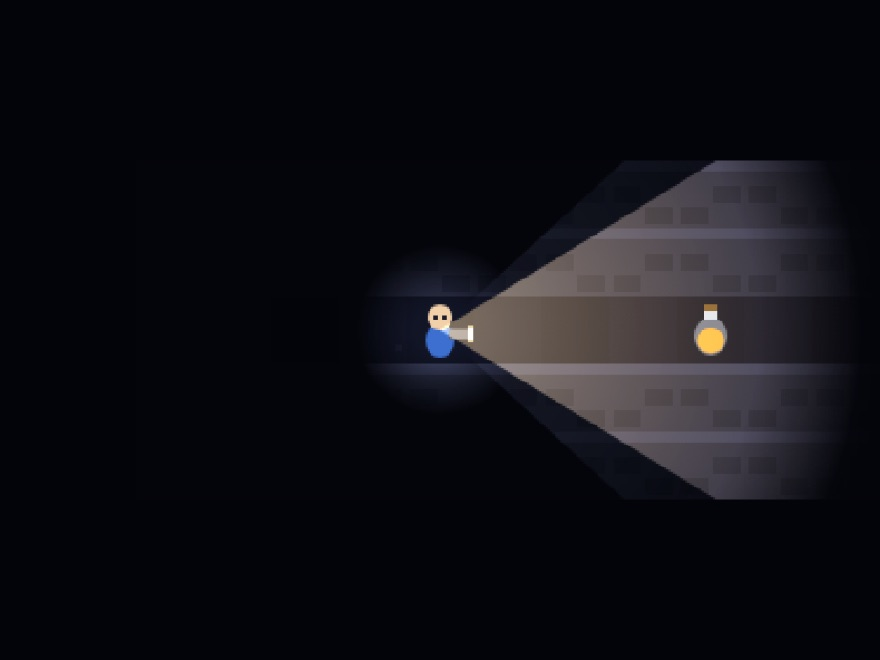
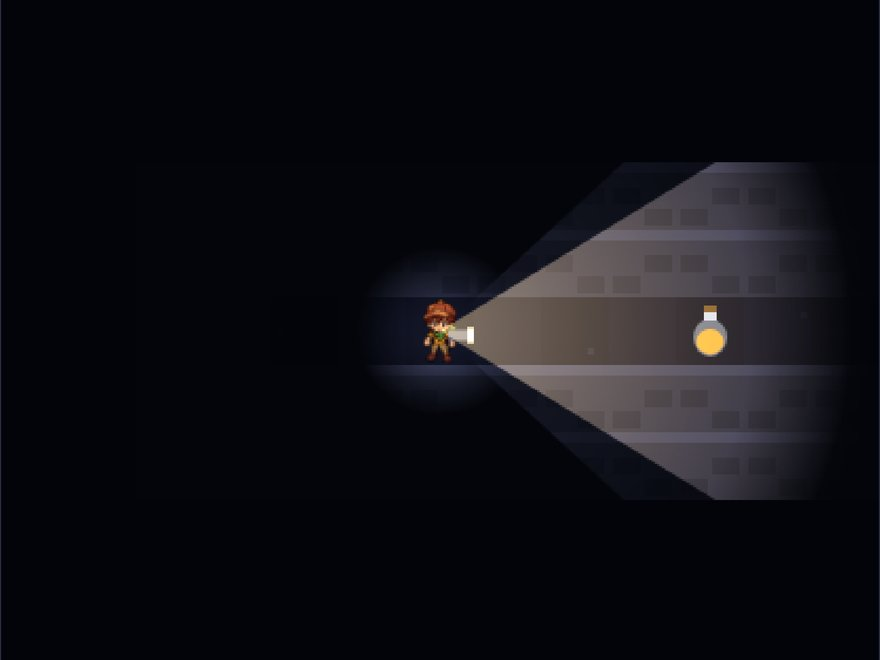
feat: 등불 미로 주인공을 브실팀이 고른 탐험가 그림으로 바꾸기
- 코덱스(gpt-image)로 만든 주인공 시안 3종 중 브실팀이 고른 C 탐험가
  (갈색 모자, 초록 스카프, 배낭)를 배경을 지워 hero.png(35×64)로 넣음
- drawPlayer가 그림을 그리고, 왼쪽을 볼 때는 좌우를 뒤집음.
  손전등은 예전처럼 코드가 그려 가리키는 방향으로 돎
- 옷장 문이 열릴 때 보이는 놀란 주인공도 같은 그림으로
- 그림을 못 불러오면 예전 모습으로 그림
- 대표 그림(thumb.jpg)을 새 주인공 화면으로 다시 찍음

Changed region(s): [[0.4602, 0.4545, 0.5523, 0.5455], [0.767, 0.4545, 0.8284, 0.5455], [0.5523, 0.5455, 0.583, 0.5758]]

diff --git a/games/lantern-maze/index.html b/games/lantern-maze/index.html
@@ -820,10 +820,13 @@ function drawBox(b){
     const k=Math.min(1,(OPEN_T-opening)/(OPEN_T*.7)),o=k*k*(3-2*k),w=9*(1-.82*o);
     cx.fillStyle='#0b0c12';cx.fillRect(x+6,y+6,20,21);
     const px=x+16,py=y+17;
+    if(heroReady){const hh=19,hw=hh*HERO.width/HERO.height;cx.drawImage(HERO,px-hw/2,y+7,hw,hh)}   // 옷장 안에서 놀란 탐험가
+    else{
     cx.fillStyle='#3d6fd1';cx.beginPath();cx.ellipse(px,py+5,5,5.5,0,0,Math.PI*2);cx.fill();
     cx.fillStyle='#f2d0a9';cx.beginPath();cx.arc(px,py-3,4.3,0,Math.PI*2);cx.fill();
     cx.fillStyle='#1b1d2b';cx.beginPath();cx.arc(px-1.6,py-3.5,1,0,Math.PI*2);cx.arc(px+1.6,py-3.5,1,0,Math.PI*2);cx.fill();
     cx.beginPath();cx.ellipse(px,py-.6,1,1.4,0,0,Math.PI*2);cx.fill();
+    }
     cx.fillStyle='#6b4a2b';cx.fillRect(x+6,y+6,w,21);cx.fillRect(x+26-w,y+6,w,21);
     cx.fillStyle='#3e2814';cx.fillRect(x+6+w-1,y+6,1,21);cx.fillRect(x+26-w,y+6,1,21);
   }else if(inside){ // 문틈이 살짝 벌어지고 눈이 보임
@@ -846,11 +849,18 @@ function drawDoor(door){
   if(!hasKey){cx.fillStyle='#ffd166';cx.fillRect(x+12,y+15,8,7);cx.strokeStyle='#ffd166';cx.lineWidth=2;cx.beginPath();cx.arc(x+16,y+15,3,Math.PI,0);cx.stroke()}
   else{cx.fillStyle='#7fd99a';cx.beginPath();cx.moveTo(x+11,y+12);cx.lineTo(x+21,y+17);cx.lineTo(x+11,y+22);cx.fill()}
 }
+// 주인공 그림: 브실팀이 고른 탐험가 (코덱스로 만든 시안 C). 그림을 못 불러오면 예전 모습으로 그림
+const HERO=new Image();let heroReady=false;HERO.onload=()=>{heroReady=true};HERO.src='hero.png';
 function drawPlayer(){
   const x=cxp(player.rx),y=cxp(player.ry);
+  if(heroReady){
+    const hh=30,hw=hh*HERO.width/HERO.height,left=Math.cos(player.ra)<-.3;   // 왼쪽을 볼 때는 좌우를 뒤집음
+    cx.save();cx.translate(x,y);if(left)cx.scale(-1,1);cx.drawImage(HERO,-hw/2,-hh/2,hw,hh);cx.restore();
+  }else{
   cx.fillStyle='#3d6fd1';cx.beginPath();cx.ellipse(x,y+5,7,8,0,0,Math.PI*2);cx.fill();
   cx.fillStyle='#f2d0a9';cx.beginPath();cx.arc(x,y-6,6,0,Math.PI*2);cx.fill();
   cx.fillStyle='#1b1d2b';cx.fillRect(x-3,y-7,2,2);cx.fillRect(x+1,y-7,2,2);
+  }
   // 손에 든 손전등 (바라보는 방향)
   const hx=x+Math.cos(player.ra)*9,hy=y+2+Math.sin(player.ra)*9;
   cx.save();cx.translate(hx,hy);cx.rotate(player.ra);
